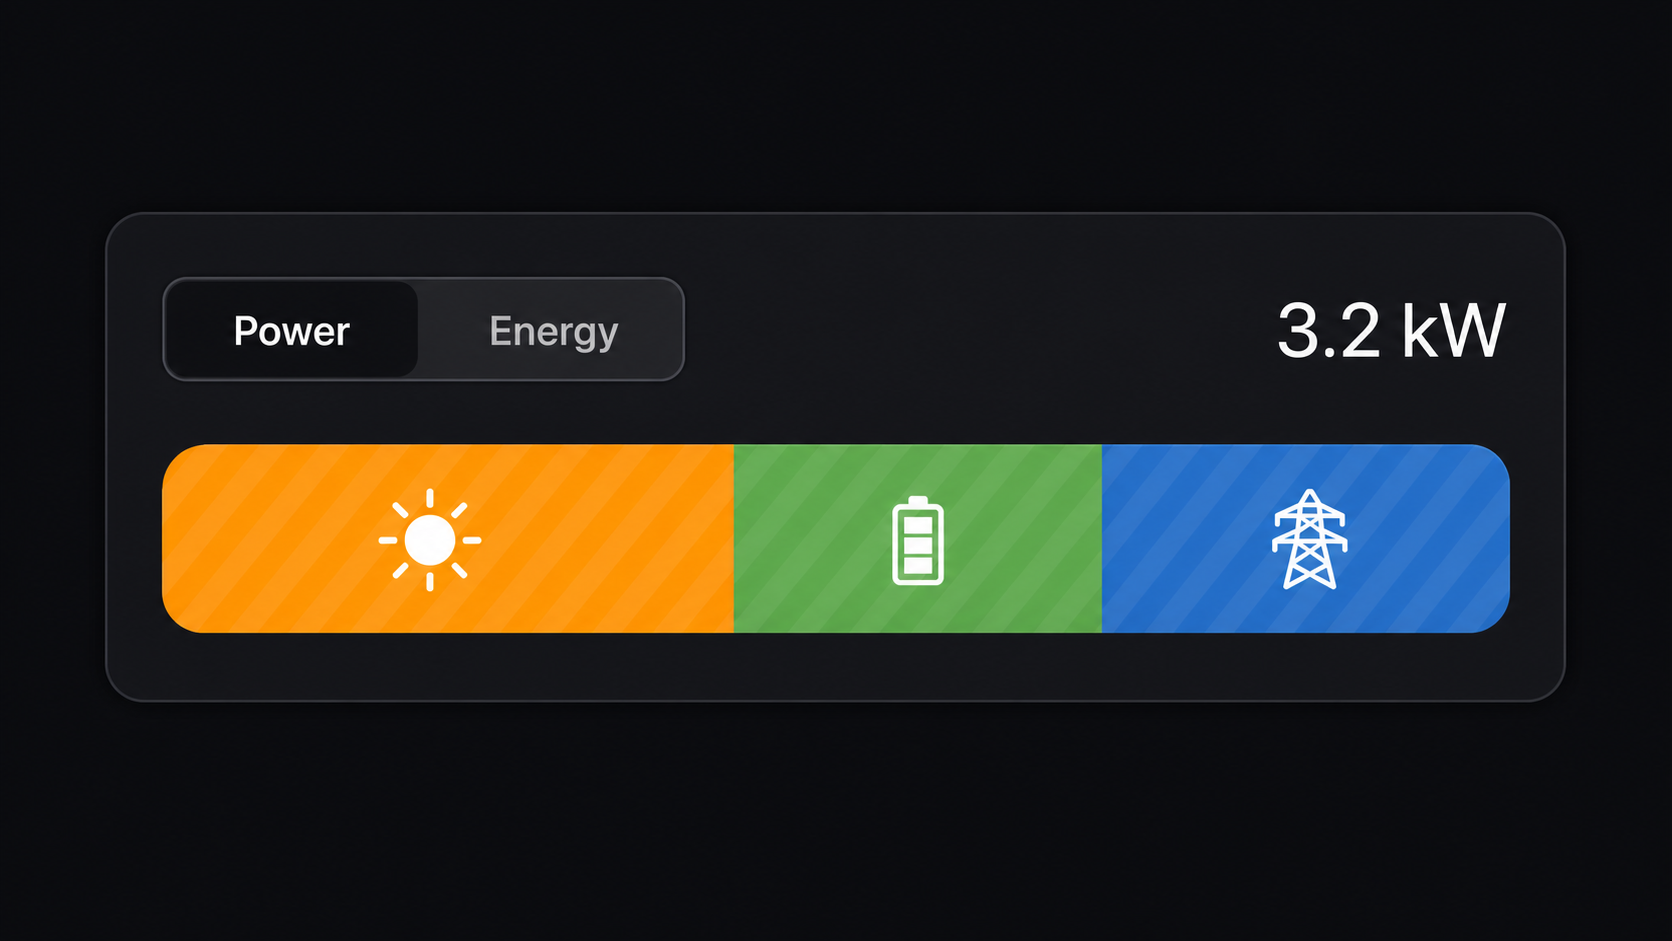
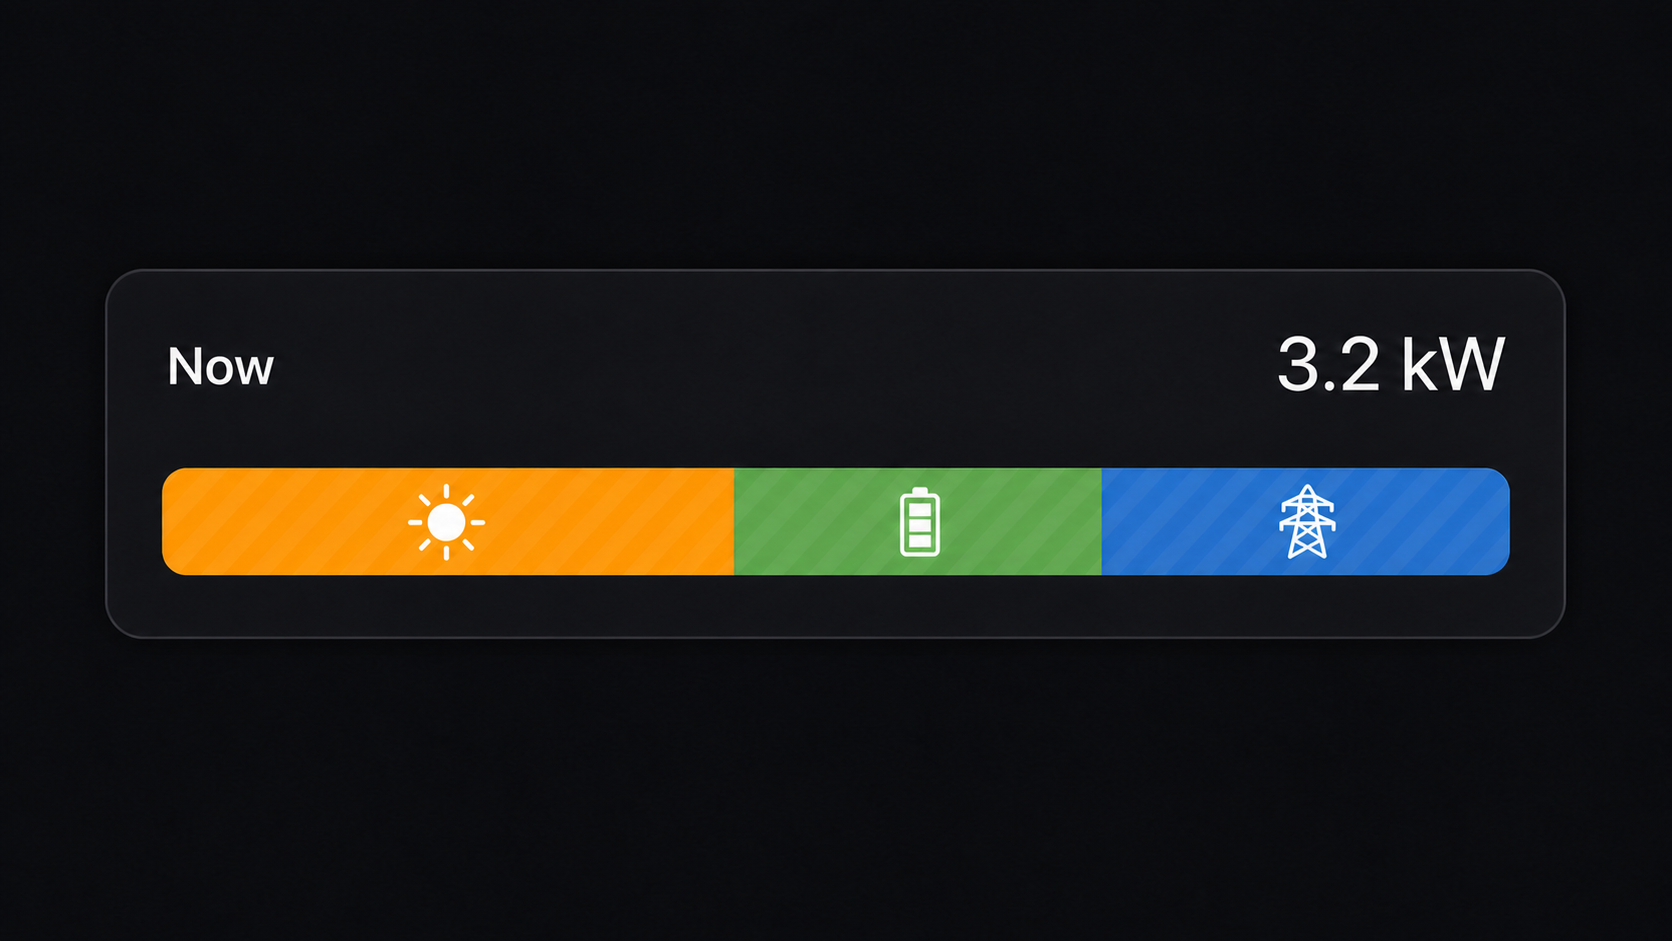
Move the display mode to the card editor

diff --git a/ha_energy-flow-card.js b/ha_energy-flow-card.js
@@ -1,6 +1,6 @@
 // HA Energy Flow Card
 
-const CARD_VERSION = "1.0.0";
+const CARD_VERSION = "1.0.1";
 const CARD_TAG = "ha_energy-flow-card";
 const SOURCE_COLORS = Object.freeze({
   solar: "var(--energy-solar-color, #ff9800)",
@@ -387,10 +387,7 @@ class HaEnergyFlowCard extends HTMLElement {
       delete this._config.collection_key;
     }
     this._configurationInitialized = true;
-    if (!this._modeInitialized) {
-      this._mode = this._config.default_mode;
-      this._modeInitialized = true;
-    }
+    this._mode = this._config.default_mode;
     if (configurationChanged && previousKey !== this._config.collection_key) {
       this._disconnectCollection();
       window.clearTimeout(this._refreshTimer);
@@ -547,12 +544,6 @@ class HaEnergyFlowCard extends HTMLElement {
     return this._hass?.localize?.(key) || fallback;
   }
 
-  _setMode(mode) {
-    if (!["power", "energy"].includes(mode) || mode === this._mode) return;
-    this._mode = mode;
-    this._render();
-  }
-
   _renderSegment(type, value, total) {
     const percentage = total > 0 ? (value / total) * 100 : 0;
     const showIcon = percentage >= 12;
@@ -593,14 +584,6 @@ class HaEnergyFlowCard extends HTMLElement {
       this._mode === "power"
         ? formatPower(this._hass, values.total)
         : formatEnergy(this._hass, values.total);
-    const powerLabel = this._localize(
-      "ui.panel.lovelace.cards.energy.power",
-      "Power"
-    );
-    const energyLabel = this._localize(
-      "ui.panel.lovelace.cards.energy.energy",
-      "Energy"
-    );
     const loadingLabel = this._localize(
       "ui.panel.lovelace.cards.energy.loading",
       "Loading energy data"
@@ -609,6 +592,16 @@ class HaEnergyFlowCard extends HTMLElement {
       "ui.panel.lovelace.cards.energy.no_data",
       "No data"
     );
+    const periodLabel =
+      this._mode === "power"
+        ? this._localize(
+            "ui.panel.lovelace.components.energy_period_selector.now",
+            "Now"
+          )
+        : this._localize(
+            "ui.components.selectors.period.periods.today",
+            "Today"
+          );
     const wrapperTag = this._config.show_card === false ? "div" : "ha-card";
     const title = this._config.title
       ? `<div class="title">${escapeHtml(this._config.title)}</div>`
@@ -648,28 +641,10 @@ class HaEnergyFlowCard extends HTMLElement {
           min-width: 0;
           margin-bottom: 8px;
         }
-        .mode-switch {
-          display: inline-grid;
-          grid-template-columns: auto auto;
-          min-width: 0;
-          padding: 2px;
-          border-radius: var(--ha-border-radius-pill, 999px);
-          background: var(--secondary-background-color);
-        }
-        .mode-switch button {
-          min-height: 28px;
-          padding: 0 var(--ha-space-3, 12px);
-          border: 0;
-          border-radius: var(--ha-border-radius-pill, 999px);
-          background: transparent;
-          color: var(--secondary-text-color);
-          font: inherit;
-          cursor: pointer;
-        }
-        .mode-switch button[aria-pressed="true"] {
-          background: var(--card-background-color);
+        .period-label {
           color: var(--primary-text-color);
-          box-shadow: var(--ha-card-box-shadow, 0 1px 2px rgba(0, 0, 0, 0.16));
+          font-size: var(--ha-font-size-m, 14px);
+          font-weight: var(--ha-font-weight-medium, 500);
         }
         .value {
           overflow: hidden;
@@ -682,8 +657,10 @@ class HaEnergyFlowCard extends HTMLElement {
           position: relative;
           display: flex;
           width: 100%;
-          height: 100%;
+          height: 30px;
           min-height: 30px;
+          max-height: 30px;
+          flex: none;
           overflow: hidden;
           border-radius: calc(var(--ha-card-border-radius, 12px) - 3px);
           background: var(--secondary-background-color);
@@ -745,14 +722,7 @@ class HaEnergyFlowCard extends HTMLElement {
       }">
         ${title}
         <div class="header">
-          <div class="mode-switch" role="group" aria-label="Display mode">
-            <button type="button" data-mode="power" aria-pressed="${
-              this._mode === "power"
-            }">${escapeHtml(powerLabel)}</button>
-            <button type="button" data-mode="energy" aria-pressed="${
-              this._mode === "energy"
-            }">${escapeHtml(energyLabel)}</button>
-          </div>
+          <div class="period-label">${escapeHtml(periodLabel)}</div>
           <div class="value">${escapeHtml(valueText)}</div>
         </div>
         ${
@@ -776,11 +746,6 @@ class HaEnergyFlowCard extends HTMLElement {
         }
       </${wrapperTag}>
     `;
-    this.shadowRoot.querySelectorAll("[data-mode]").forEach((button) => {
-      button.addEventListener("click", () => {
-        this._setMode(button.dataset.mode);
-      });
-    });
     if (this._nativeCard) this.shadowRoot.appendChild(this._nativeCard);
   }
 }

diff --git a/README.md b/README.md
@@ -16,7 +16,7 @@ No source entity has to be configured in the card.
 
 ## Features
 
-- In-card Power/Energy switch
+- Power/Energy mode selection in the visual editor
 - Live Power composition with animation
 - Period-based Energy composition without animation
 - Uses Home Assistant's Energy dashboard source configuration
@@ -78,8 +78,9 @@ collection_key: energy_1
 | `title` | No | Empty | Optional card title |
 | `show_card` | No | `true` | Whether to render the Home Assistant card background |
 
-All options are available in the visual editor. The Power/Energy switch remains
-available directly on the rendered card.
+All options are available in the visual editor. Power mode displays Home
+Assistant's localized **Now** label; Energy mode displays its localized
+**Today** label.
 
 ## How values are calculated
 
